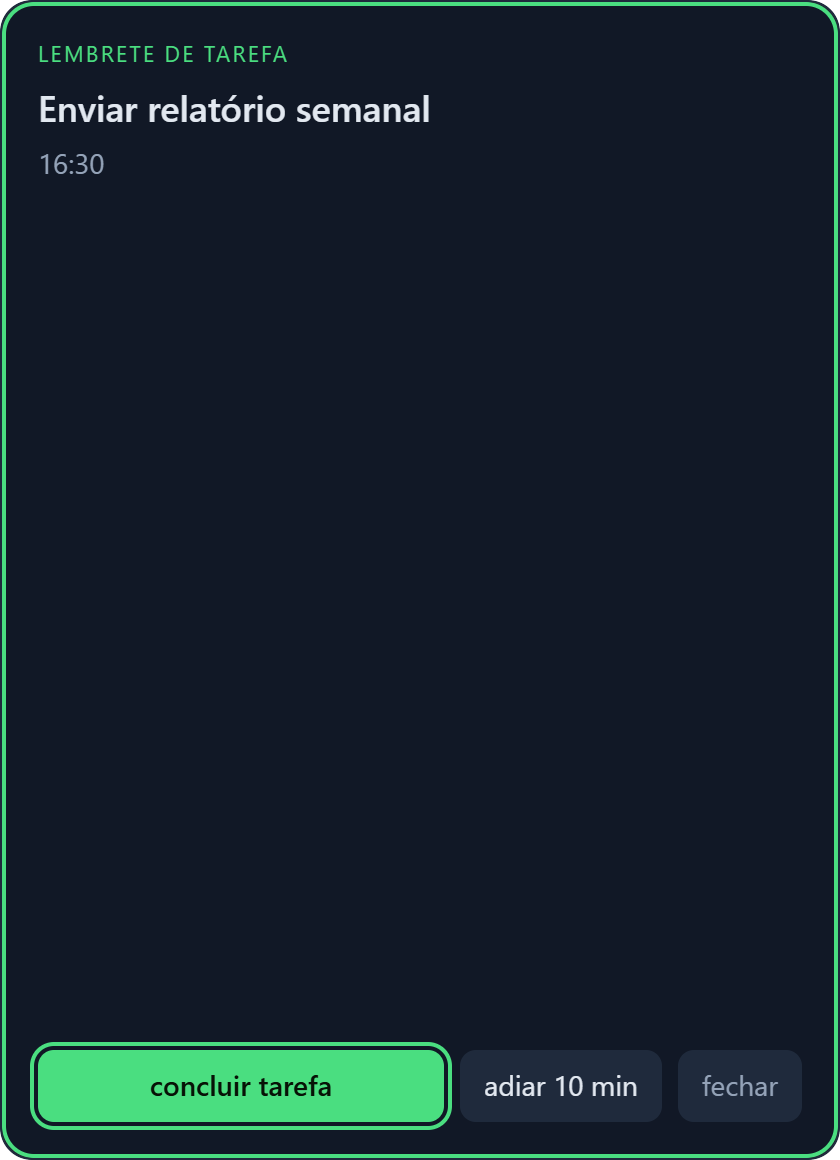
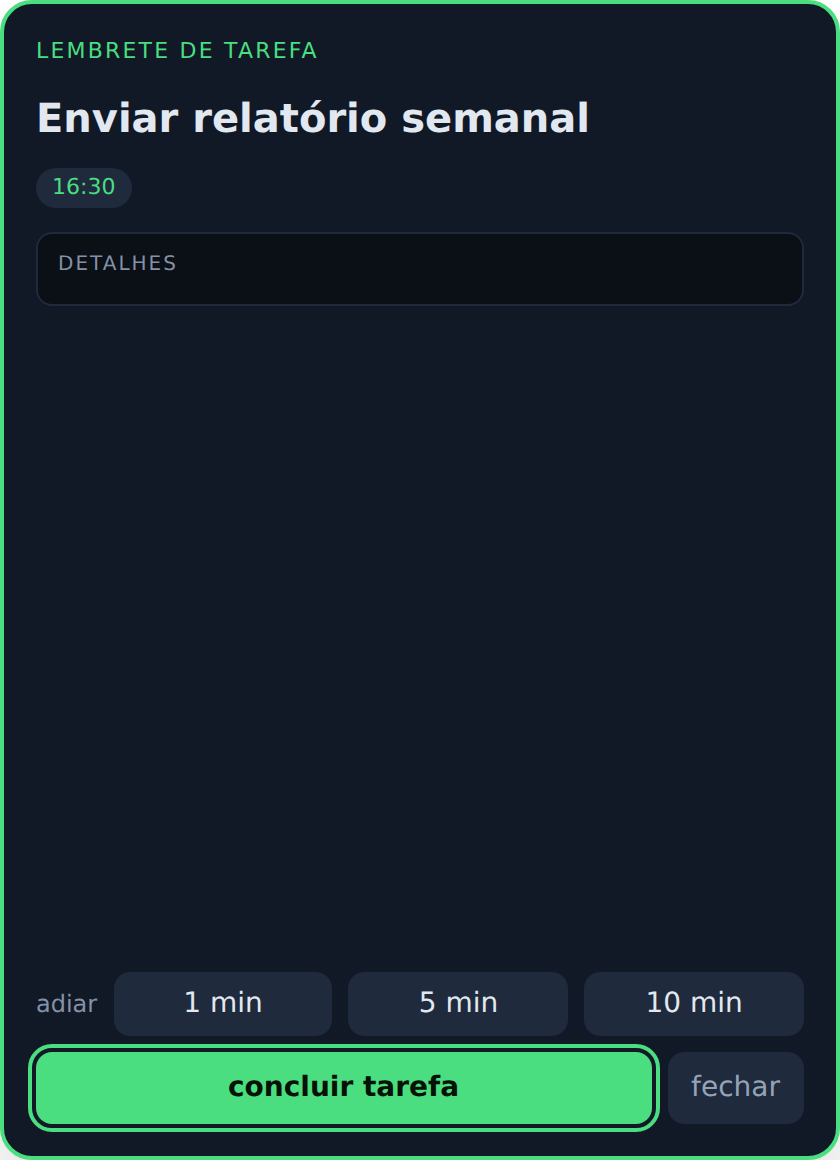
feat(alert): snooze for 1, 5 or 10 minutes
The meeting alert and the task reminder offered a single 10-minute snooze.
Rust already accepts any delay from 1 minute, so this only adds the buttons.

Claude-Session: https://claude.ai/code/session_01T12wd4DUT43kUQTCfWRp5A

diff --git a/src/components/AlertActions.tsx b/src/components/AlertActions.tsx
@@ -4,7 +4,7 @@ import { kindOf, STATUS_PREFIX } from "../lib/alerts";
 import { TASK_PREFIX } from "../lib/reminders";
 import { t } from "../i18n";
 
-const SNOOZE_MINUTES = 10;
+const SNOOZE_OPTIONS = [1, 5, 10];
 
 type Props = {
   event: AgendaItem;
@@ -25,7 +25,7 @@ const AlertActions = forwardRef<HTMLButtonElement, Props>(function AlertActions(
 ) {
   const kind = kindOf(event);
   const open = (url: string) => () => void api.openLink(url);
-  const snooze = () => void api.alertSnooze(event.id, SNOOZE_MINUTES).then(onHide, onDismiss);
+  const snooze = (minutes: number) => () => void api.alertSnooze(event.id, minutes).then(onHide, onDismiss);
   const mute = async () => {
     try {
       const watched = await api.statusAlertsGet();
@@ -36,71 +36,84 @@ const AlertActions = forwardRef<HTMLButtonElement, Props>(function AlertActions(
   };
 
   return (
-    <div className="flex gap-2">
-      {kind === "task" && (
-        <button
-          ref={primary}
-          type="button"
-          onClick={() => void api.taskComplete(event.id.slice(TASK_PREFIX.length)).then(onCompleted).finally(onDismiss)}
-          className={PRIMARY}
-        >
-          {t("alert.completeTask")}
-        </button>
-      )}
-      {kind === "meeting" && event.meet && (
-        <button
-          ref={primary}
-          type="button"
-          onClick={() => {
-            void api.openLink(event.meet);
-            onDismiss();
-          }}
-          className={PRIMARY}
-        >
-          {t("alert.joinMeet")}
-        </button>
-      )}
-      {kind === "status" && event.link && (
-        <button ref={primary} type="button" onClick={open(event.link)} className={PRIMARY}>
-          {t("alert.openStatus")}
-        </button>
-      )}
-      {kind === "model" && onOpenModels && (
-        <button
-          ref={primary}
-          type="button"
-          onClick={() => {
-            onOpenModels();
-            onDismiss();
-          }}
-          className={PRIMARY}
-        >
-          {t("alert.openModels")}
-        </button>
-      )}
-      {kind === "meeting" && event.link && (
-        <button
-          ref={event.meet ? undefined : primary}
-          type="button"
-          onClick={open(event.link)}
-          className={event.meet ? SECONDARY : PRIMARY}
-        >
-          {t("alert.openCalendar")}
-        </button>
-      )}
-      {kind === "status" && (
-        <button type="button" onClick={() => void mute()} className={SECONDARY}>
-          {t("alert.silence")}
-        </button>
-      )}
+    <div className="flex flex-col gap-2">
       {(kind === "meeting" || kind === "task") && (
-        <button type="button" onClick={snooze} className={SECONDARY}>
-          {t("alert.snooze", { minutes: SNOOZE_MINUTES })}
-        </button>
+        <div role="group" aria-label={t("alert.snoozeLabel")} className="flex items-center gap-2">
+          <span className="text-xs text-faint">{t("alert.snoozeLabel")}</span>
+          {SNOOZE_OPTIONS.map((m) => (
+            <button
+              key={m}
+              type="button"
+              onClick={snooze(m)}
+              aria-label={t("alert.snooze", { minutes: m })}
+              className="flex-1 rounded-lg bg-edge px-2 py-1.5 text-sm text-fg"
+            >
+              {t("alert.snoozeOption", { minutes: m })}
+            </button>
+          ))}
+        </div>
       )}
-      <button type="button" onClick={onDismiss} title="Esc" className="rounded-lg bg-edge px-3 py-2 text-sm text-muted">
-        {t("alert.close")}
-      </button>
+      <div className="flex gap-2">
+        {kind === "task" && (
+          <button
+            ref={primary}
+            type="button"
+            onClick={() => void api.taskComplete(event.id.slice(TASK_PREFIX.length)).then(onCompleted).finally(onDismiss)}
+            className={PRIMARY}
+          >
+            {t("alert.completeTask")}
+          </button>
+        )}
+        {kind === "meeting" && event.meet && (
+          <button
+            ref={primary}
+            type="button"
+            onClick={() => {
+              void api.openLink(event.meet);
+              onDismiss();
+            }}
+            className={PRIMARY}
+          >
+            {t("alert.joinMeet")}
+          </button>
+        )}
+        {kind === "status" && event.link && (
+          <button ref={primary} type="button" onClick={open(event.link)} className={PRIMARY}>
+            {t("alert.openStatus")}
+          </button>
+        )}
+        {kind === "model" && onOpenModels && (
+          <button
+            ref={primary}
+            type="button"
+            onClick={() => {
+              onOpenModels();
+              onDismiss();
+            }}
+            className={PRIMARY}
+          >
+            {t("alert.openModels")}
+          </button>
+        )}
+        {kind === "meeting" && event.link && (
+          <button
+            ref={event.meet ? undefined : primary}
+            type="button"
+            onClick={open(event.link)}
+            className={event.meet ? SECONDARY : PRIMARY}
+          >
+            {t("alert.openCalendar")}
+          </button>
+        )}
+        {kind === "status" && (
+          <button type="button" onClick={() => void mute()} className={SECONDARY}>
+            {t("alert.silence")}
+          </button>
+        )}
+        <button type="button" onClick={onDismiss} title="Esc" className="rounded-lg bg-edge px-3 py-2 text-sm text-muted">
+          {t("alert.close")}
+        </button>
+      </div>
     </div>
   );
 });

diff --git a/src/components/Alert.test.tsx b/src/components/Alert.test.tsx
@@ -216,3 +216,18 @@ test("with the vault locked the meeting alert shows no note prep at all", async 
   expect(screen.queryByRole("button", { name: /criar nota da reunião/ })).toBeNull();
   vaultLocked = false;
 });
+
+test("a meeting can be snoozed for 1, 5 or 10 minutes, each sending its own delay to Rust", async () => {
+  for (const minutes of [1, 5, 10]) {
+    calls.length = 0;
+    args.length = 0;
+    const closed: string[] = [];
+    const view = await show([event], { onDismiss: (id) => closed.push(id) });
+    await act(async () => {
+      fireEvent.click(screen.getByRole("button", { name: `adiar ${minutes} min` }));
+    });
+    expect(args[calls.indexOf("alert_snooze")]).toEqual({ id: "e1", minutes });
+    expect(closed).toEqual(["e1"]);
+    view.unmount();
+  }
+});

diff --git a/src/i18n/en/tasks.ts b/src/i18n/en/tasks.ts
@@ -105,6 +105,8 @@ export const tasks: Record<keyof typeof source, string> = {
   "alert.joinMeet": "join Meet",
   "alert.openCalendar": "open in Calendar",
   "alert.snooze": "snooze {minutes} min",
+  "alert.snoozeLabel": "snooze",
+  "alert.snoozeOption": "{minutes} min",
   "alert.serviceIssue": "service issue",
   "alert.openStatus": "open status page",
   "alert.close": "close",

diff --git a/src/i18n/pt-BR/tasks.ts b/src/i18n/pt-BR/tasks.ts
@@ -103,6 +103,8 @@ export const tasks = {
   "alert.joinMeet": "entrar no Meet",
   "alert.openCalendar": "abrir no Calendar",
   "alert.snooze": "adiar {minutes} min",
+  "alert.snoozeLabel": "adiar",
+  "alert.snoozeOption": "{minutes} min",
   "alert.serviceIssue": "serviço com problema",
   "alert.openStatus": "abrir página de status",
   "alert.close": "fechar",

diff --git a/CHANGELOG.md b/CHANGELOG.md
@@ -16,6 +16,8 @@ versões em [SemVer](https://semver.org/lang/pt-BR/).
 
 ### Adicionado
 
+- **Adiar por 1, 5 ou 10 minutos**: o aviso de reunião e o lembrete de tarefa trazem os três botões de adiar numa
+  linha própria, em vez de só "adiar 10 min". O aviso volta a tocar quando o prazo escolhido passa.
 - **Copiar o clipe reescrito**: ao passar o mouse num item do clipboard aparecem as reescritas que cabem no tipo:
   JSON formatado ou compacto (as chaves mantêm a ordem), texto em uma linha, MAIÚSCULAS e minúsculas. A reescrita
   vai para a área de transferência e o histórico continua como estava; cópias cortadas pelo limite não são
